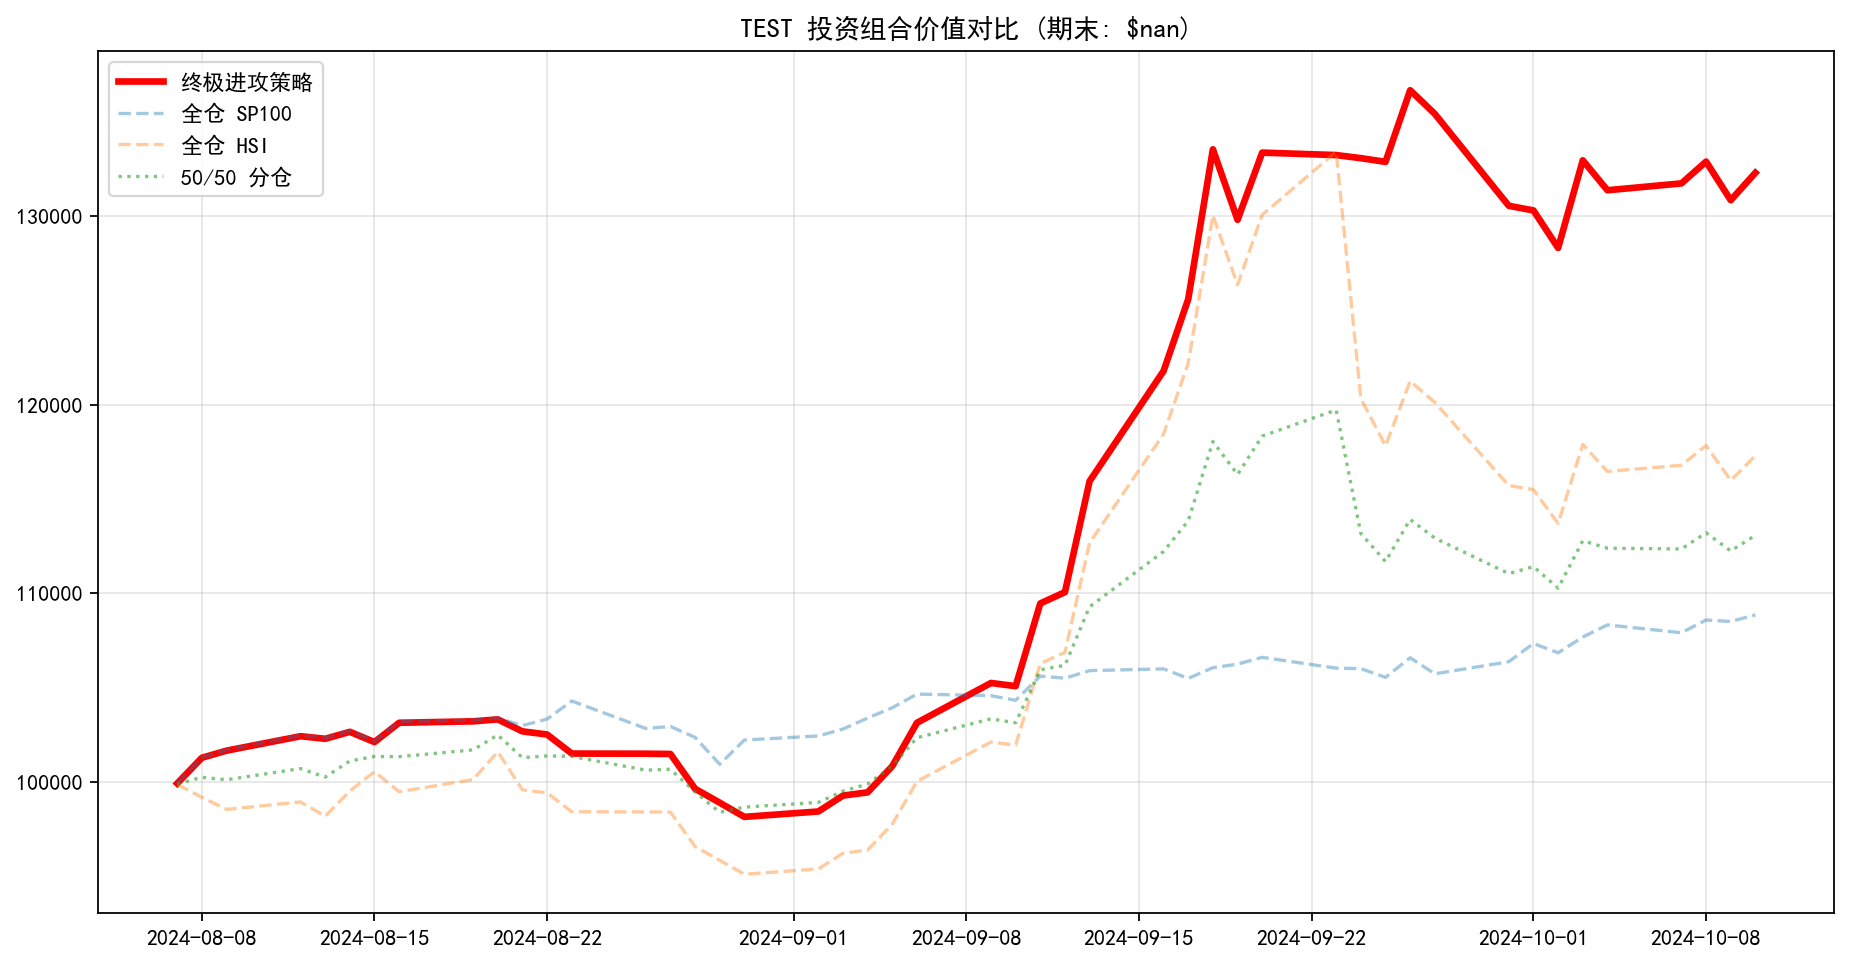
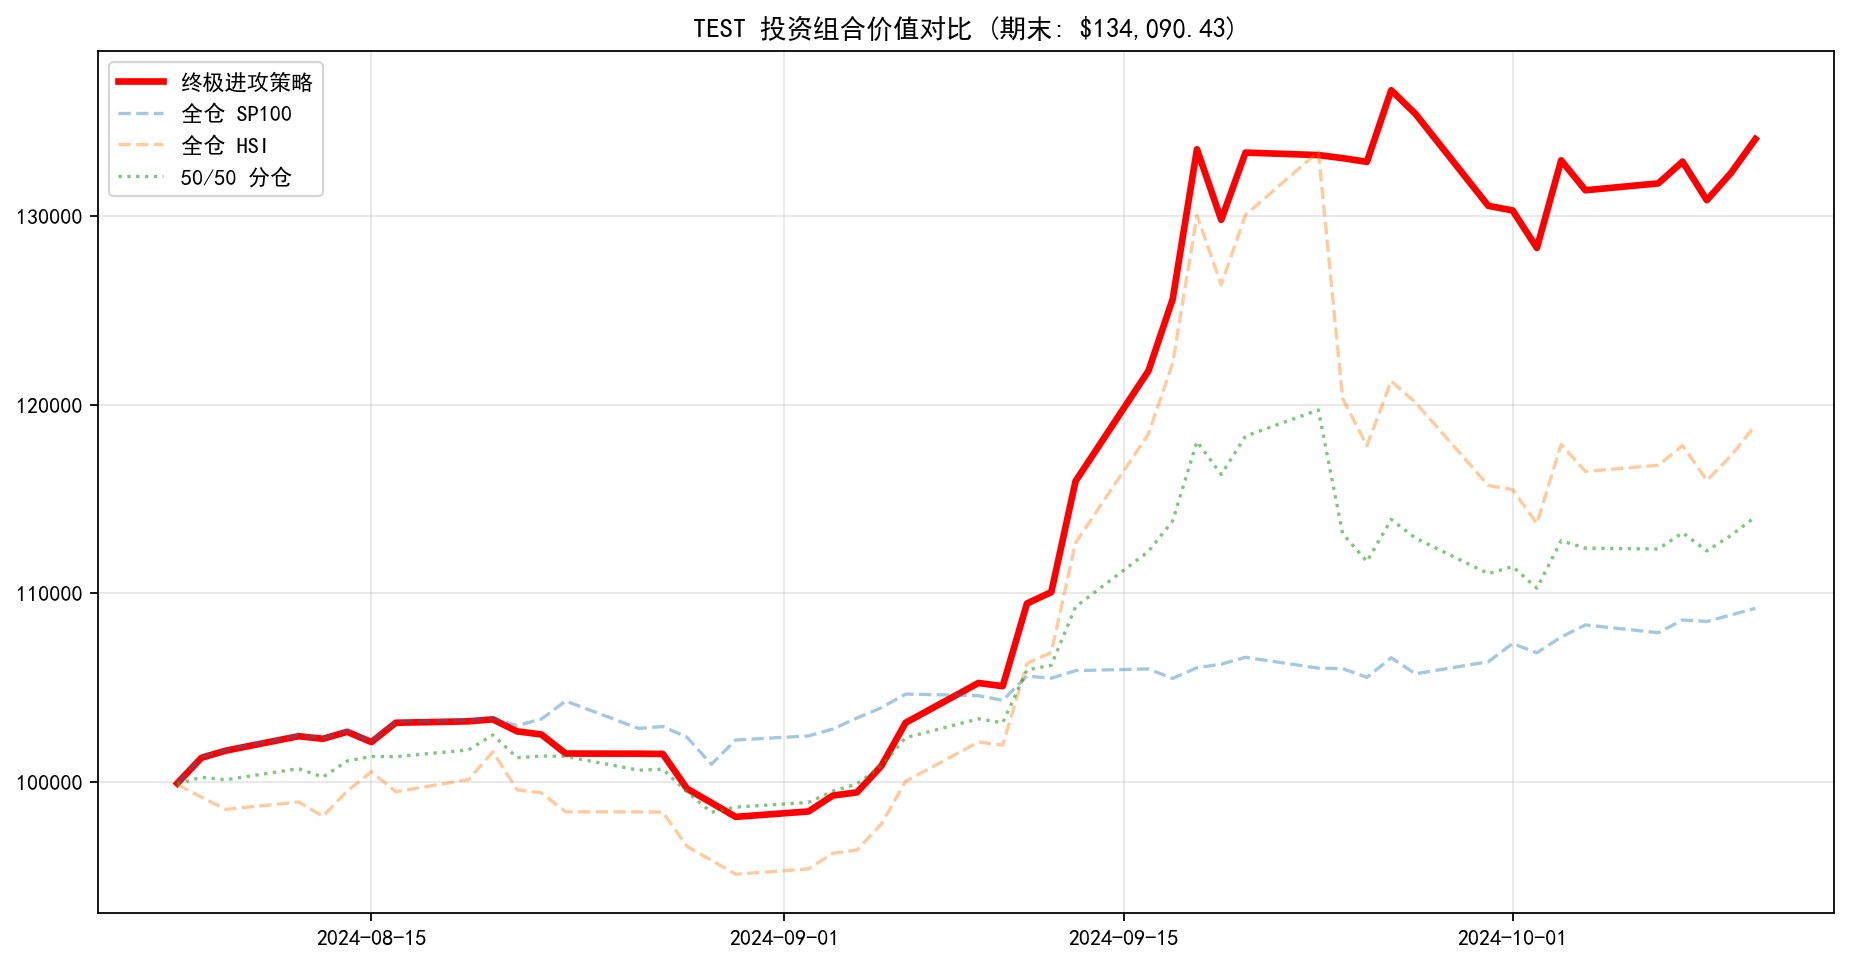
fix: prediction model !

diff --git a/src/task2/prediction_model.py b/src/task2/prediction_model.py
@@ -280,7 +280,7 @@ class LinePredictionPipeline:
         te_df = full_dataset.iloc[te_s_raw:te_e_raw]
 
         if tr_df.empty or val_df.empty or te_df.empty:
-            raise ValueError("train/val/test 中存在空区间，请检查 split_ranges")
+            raise ValueError("train/val/test 中存在空区间")
 
         reg_best = self.train_models(tr_df, val_df)
         roll = self.cfg.get("rolling_oos", {})
@@ -291,8 +291,6 @@ class LinePredictionPipeline:
         if is_roll:
             val_pred = self.eval_data(
                 dataset_clean, va_s_v, va_e_v, True, reg_best["params"], win, min_t)
-
-            # For test set: use fixed model trained on history (train+val) data
             separate_cols = ["target", "target_return", "next_day_return"]
             history_feats = [
                 c for c in dataset_clean.columns if c not in separate_cols]
@@ -305,7 +303,6 @@ class LinePredictionPipeline:
             model = Ridge(**reg_best["params"]
                           ).fit(Xh[valid_mask], yh[valid_mask])
 
-            # Predict on test data (including last 20 days with NaN target_return)
             X_test = te_df[history_feats].values
             te_predictions = model.predict(X_test)
 
@@ -326,6 +323,13 @@ class LinePredictionPipeline:
         val_met = self.calc_metrics(val_pred)
         te_met = self.calc_metrics(te_pred)
 
+        if pd.isna(te_pred.at[te_pred.index[-1], "next_day_return"]):
+            prev_next_day_return = te_pred.at[te_pred.index[-2],
+                                              "next_day_return"]
+            curr_target_return = te_pred.at[te_pred.index[-1],
+                                            "pred_target_return"]
+            new_val = prev_next_day_return * (1 + curr_target_return)
+            te_pred.at[te_pred.index[-1], "next_day_return"] = new_val
         val_pred.to_csv(
             out_dir / out["val_prediction_file"], encoding="utf-8-sig")
         te_pred.to_csv(
@@ -336,9 +340,26 @@ class LinePredictionPipeline:
             (te_pred, "Test", "test_return_compare_plot"),
         ]
         for p_df, title_prefix, fname in plots:
-            plt.figure(figsize=(10, 4))
-            plt.plot(p_df.index, p_df["target_return"], label="actual")
-            plt.plot(p_df.index, p_df["pred_target_return"], label="predicted")
+            h = int(self.cfg["target"]["horizon_days"])
+            idx_ret_plot = returns.mean(axis=1)
+            padding = pd.Series([0] * (h+1))
+            padded_data = pd.concat([idx_ret_plot, padding])
+            target_extended = padded_data.rolling(window=h).sum().shift(-h + 1)
+            target_return_final = target_extended.iloc[:len(idx_ret_plot)]
+            plot_df = p_df.copy()
+            plot_df["target_return"] = target_return_final.reindex(
+                plot_df.index).values
+
+            if pd.isna(plot_df.at[plot_df.index[-1], "next_day_return"]):
+                prev_next_day_return = plot_df.at[plot_df.index[-2],
+                                                  "next_day_return"]
+                curr_target_return = plot_df.at[plot_df.index[-1],
+                                                "target_return"]
+                new_val = prev_next_day_return * (1 + curr_target_return)
+                plot_df.at[plot_df.index[-1], "next_day_return"] = new_val
+            plt.plot(plot_df.index, plot_df["target_return"], label="actual")
+            plt.plot(plot_df.index,
+                     plot_df["pred_target_return"], label="predicted")
             plt.title(f"{name.upper()} {title_prefix}: Pred vs Actual")
             plt.legend()
             plt.grid(alpha=0.3)

diff --git a/src/task3/prediction_model.py b/src/task3/prediction_model.py
@@ -280,7 +280,7 @@ class LinePredictionPipeline:
         te_df = full_dataset.iloc[te_s_raw:te_e_raw]
 
         if tr_df.empty or val_df.empty or te_df.empty:
-            raise ValueError("train/val/test 中存在空区间，请检查 split_ranges")
+            raise ValueError("train/val/test 中存在空区间")
 
         reg_best = self.train_models(tr_df, val_df)
         roll = self.cfg.get("rolling_oos", {})
@@ -291,8 +291,6 @@ class LinePredictionPipeline:
         if is_roll:
             val_pred = self.eval_data(
                 dataset_clean, va_s_v, va_e_v, True, reg_best["params"], win, min_t)
-
-            # For test set: use fixed model trained on history (train+val) data
             separate_cols = ["target", "target_return", "next_day_return"]
             history_feats = [
                 c for c in dataset_clean.columns if c not in separate_cols]
@@ -305,7 +303,6 @@ class LinePredictionPipeline:
             model = Ridge(**reg_best["params"]
                           ).fit(Xh[valid_mask], yh[valid_mask])
 
-            # Predict on test data (including last 20 days with NaN target_return)
             X_test = te_df[history_feats].values
             te_predictions = model.predict(X_test)
 
@@ -326,6 +323,13 @@ class LinePredictionPipeline:
         val_met = self.calc_metrics(val_pred)
         te_met = self.calc_metrics(te_pred)
 
+        if pd.isna(te_pred.at[te_pred.index[-1], "next_day_return"]):
+            prev_next_day_return = te_pred.at[te_pred.index[-2],
+                                              "next_day_return"]
+            curr_target_return = te_pred.at[te_pred.index[-1],
+                                            "pred_target_return"]
+            new_val = prev_next_day_return * (1 + curr_target_return)
+            te_pred.at[te_pred.index[-1], "next_day_return"] = new_val
         val_pred.to_csv(
             out_dir / out["val_prediction_file"], encoding="utf-8-sig")
         te_pred.to_csv(
@@ -336,9 +340,26 @@ class LinePredictionPipeline:
             (te_pred, "Test", "test_return_compare_plot"),
         ]
         for p_df, title_prefix, fname in plots:
-            plt.figure(figsize=(10, 4))
-            plt.plot(p_df.index, p_df["target_return"], label="actual")
-            plt.plot(p_df.index, p_df["pred_target_return"], label="predicted")
+            h = int(self.cfg["target"]["horizon_days"])
+            idx_ret_plot = returns.mean(axis=1)
+            padding = pd.Series([0] * (h+1))
+            padded_data = pd.concat([idx_ret_plot, padding])
+            target_extended = padded_data.rolling(window=h).sum().shift(-h + 1)
+            target_return_final = target_extended.iloc[:len(idx_ret_plot)]
+            plot_df = p_df.copy()
+            plot_df["target_return"] = target_return_final.reindex(
+                plot_df.index).values
+
+            if pd.isna(plot_df.at[plot_df.index[-1], "next_day_return"]):
+                prev_next_day_return = plot_df.at[plot_df.index[-2],
+                                                  "next_day_return"]
+                curr_target_return = plot_df.at[plot_df.index[-1],
+                                                "target_return"]
+                new_val = prev_next_day_return * (1 + curr_target_return)
+                plot_df.at[plot_df.index[-1], "next_day_return"] = new_val
+            plt.plot(plot_df.index, plot_df["target_return"], label="actual")
+            plt.plot(plot_df.index,
+                     plot_df["pred_target_return"], label="predicted")
             plt.title(f"{name.upper()} {title_prefix}: Pred vs Actual")
             plt.legend()
             plt.grid(alpha=0.3)
